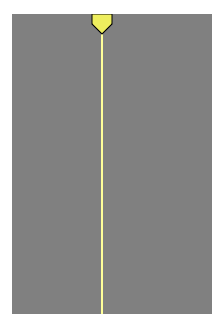
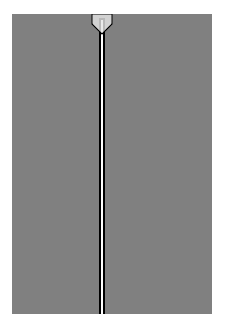
style

Changed region(s): [[0.0312, 0.0307, 0.9688, 0.9816]]

diff --git a/index.js b/index.js
@@ -1,12 +1,12 @@
 const html = require('bel')
 
 module.exports = ({ height, width }) => {
-  const main = 'hsl(60, 100%, 80%)'
-  const darker = 'hsl(60, 80%, 65%)'
+  const main = 'hsl(0, 0%, 100%)'
+  const darker = 'hsla(0, 0%, 90%, 0.8)'
 
   return html`
     <g>
-      <line x1=${width / 2} y1=0 x2=${width / 2} y2=${height} stroke="${main}" />
+      <rect x=${width / 2 - 1} y=${width / 4} width=2 height=${height - width / 4} fill="${main}" stroke="black"/>
       <path d="M0 0 H${width} V${width / 2} L${width / 2} ${width} L0 ${width / 2} Z" fill="${darker}" stroke="black" stroke-width="0.5">
     </g>
   `
